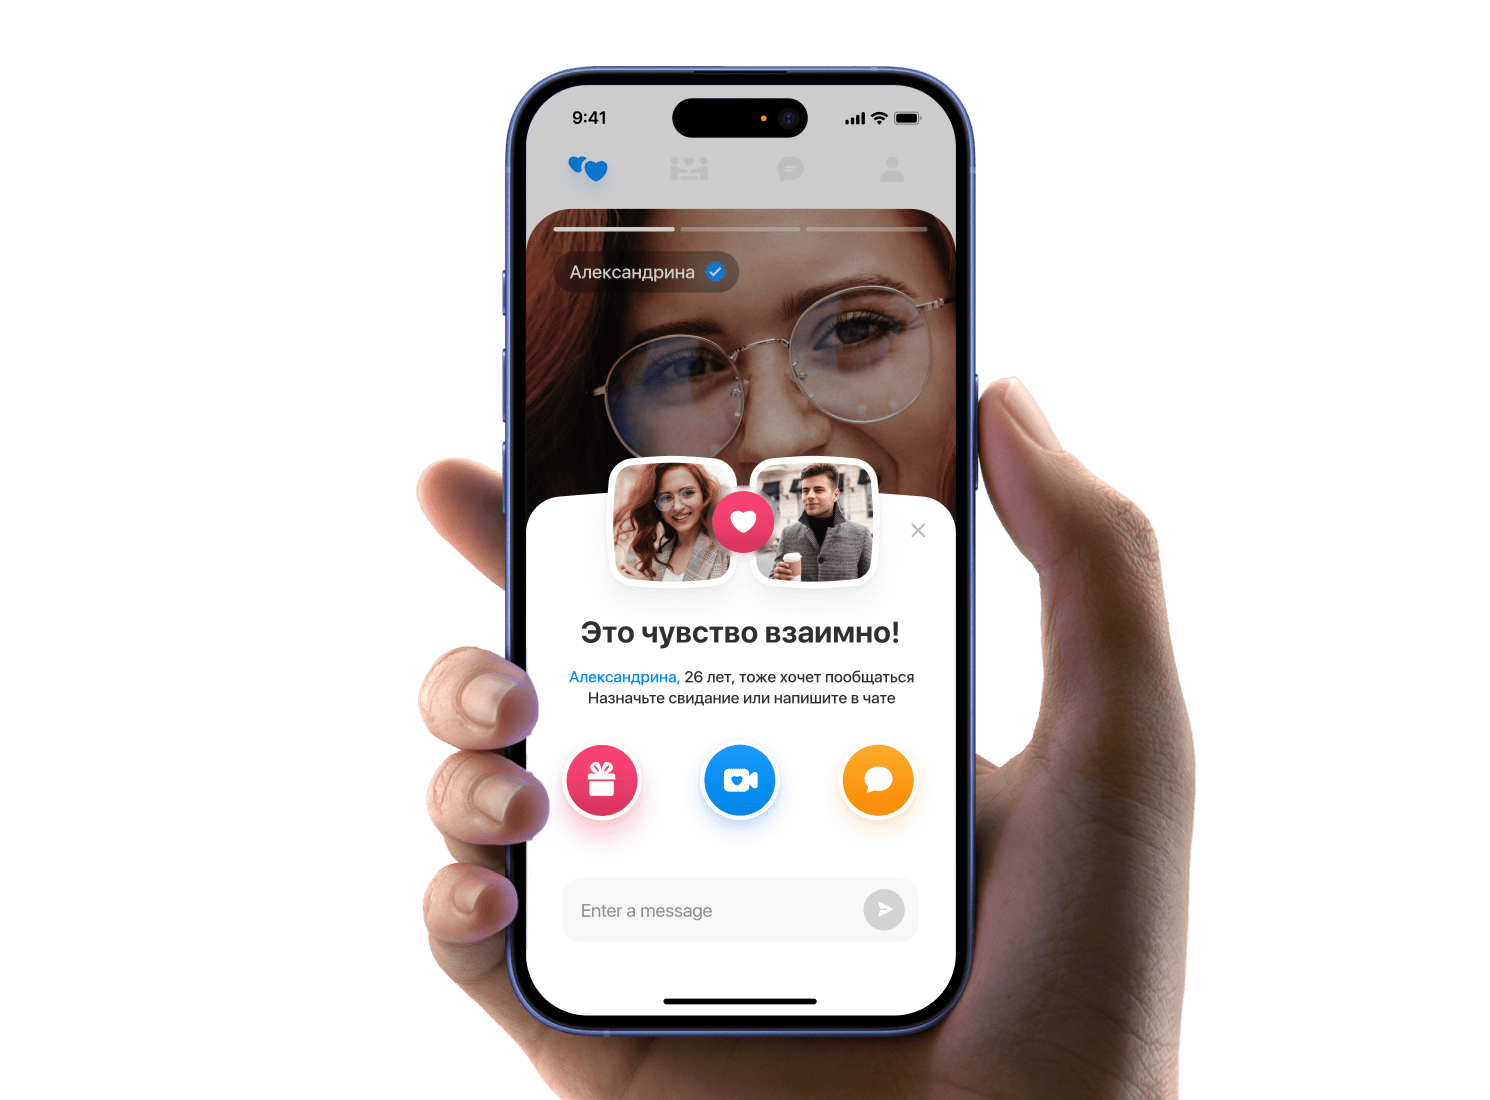
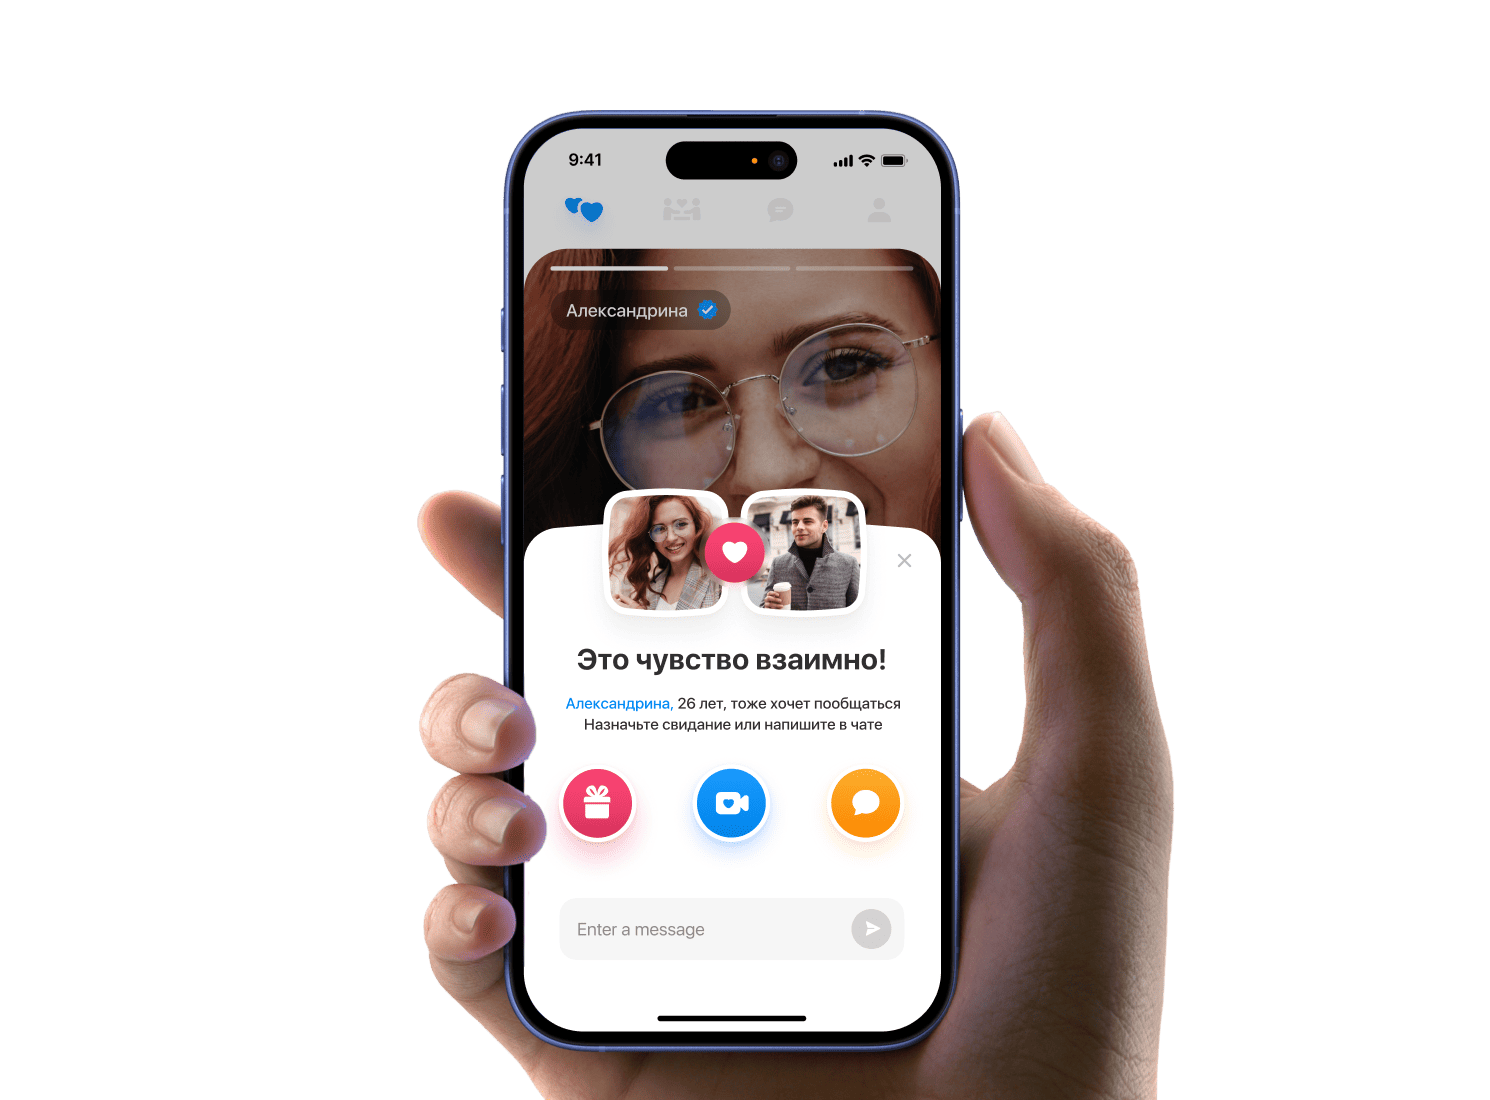
Обновить фото в карточках проектов
Новые макеты Flow Bot, Online+ и Alike, все 1490×1100.

Changed region(s): [[0.2779, 0.0618, 0.8027, 1.0], [0.4013, 0.8036, 0.4631, 0.8655]]

diff --git a/index.html b/index.html
@@ -174,7 +174,7 @@
                 </span>
               </div>
               <div class="card__media js-tilt">
-                <img src="assets/img/flowbot_photo.png" width="1680" height="1241" alt="Интерфейс FlowBot" loading="lazy">
+                <img src="assets/img/flowbot_photo.png" width="1490" height="1100" alt="Интерфейс FlowBot" loading="lazy">
               </div>
             </a>
           </article>
